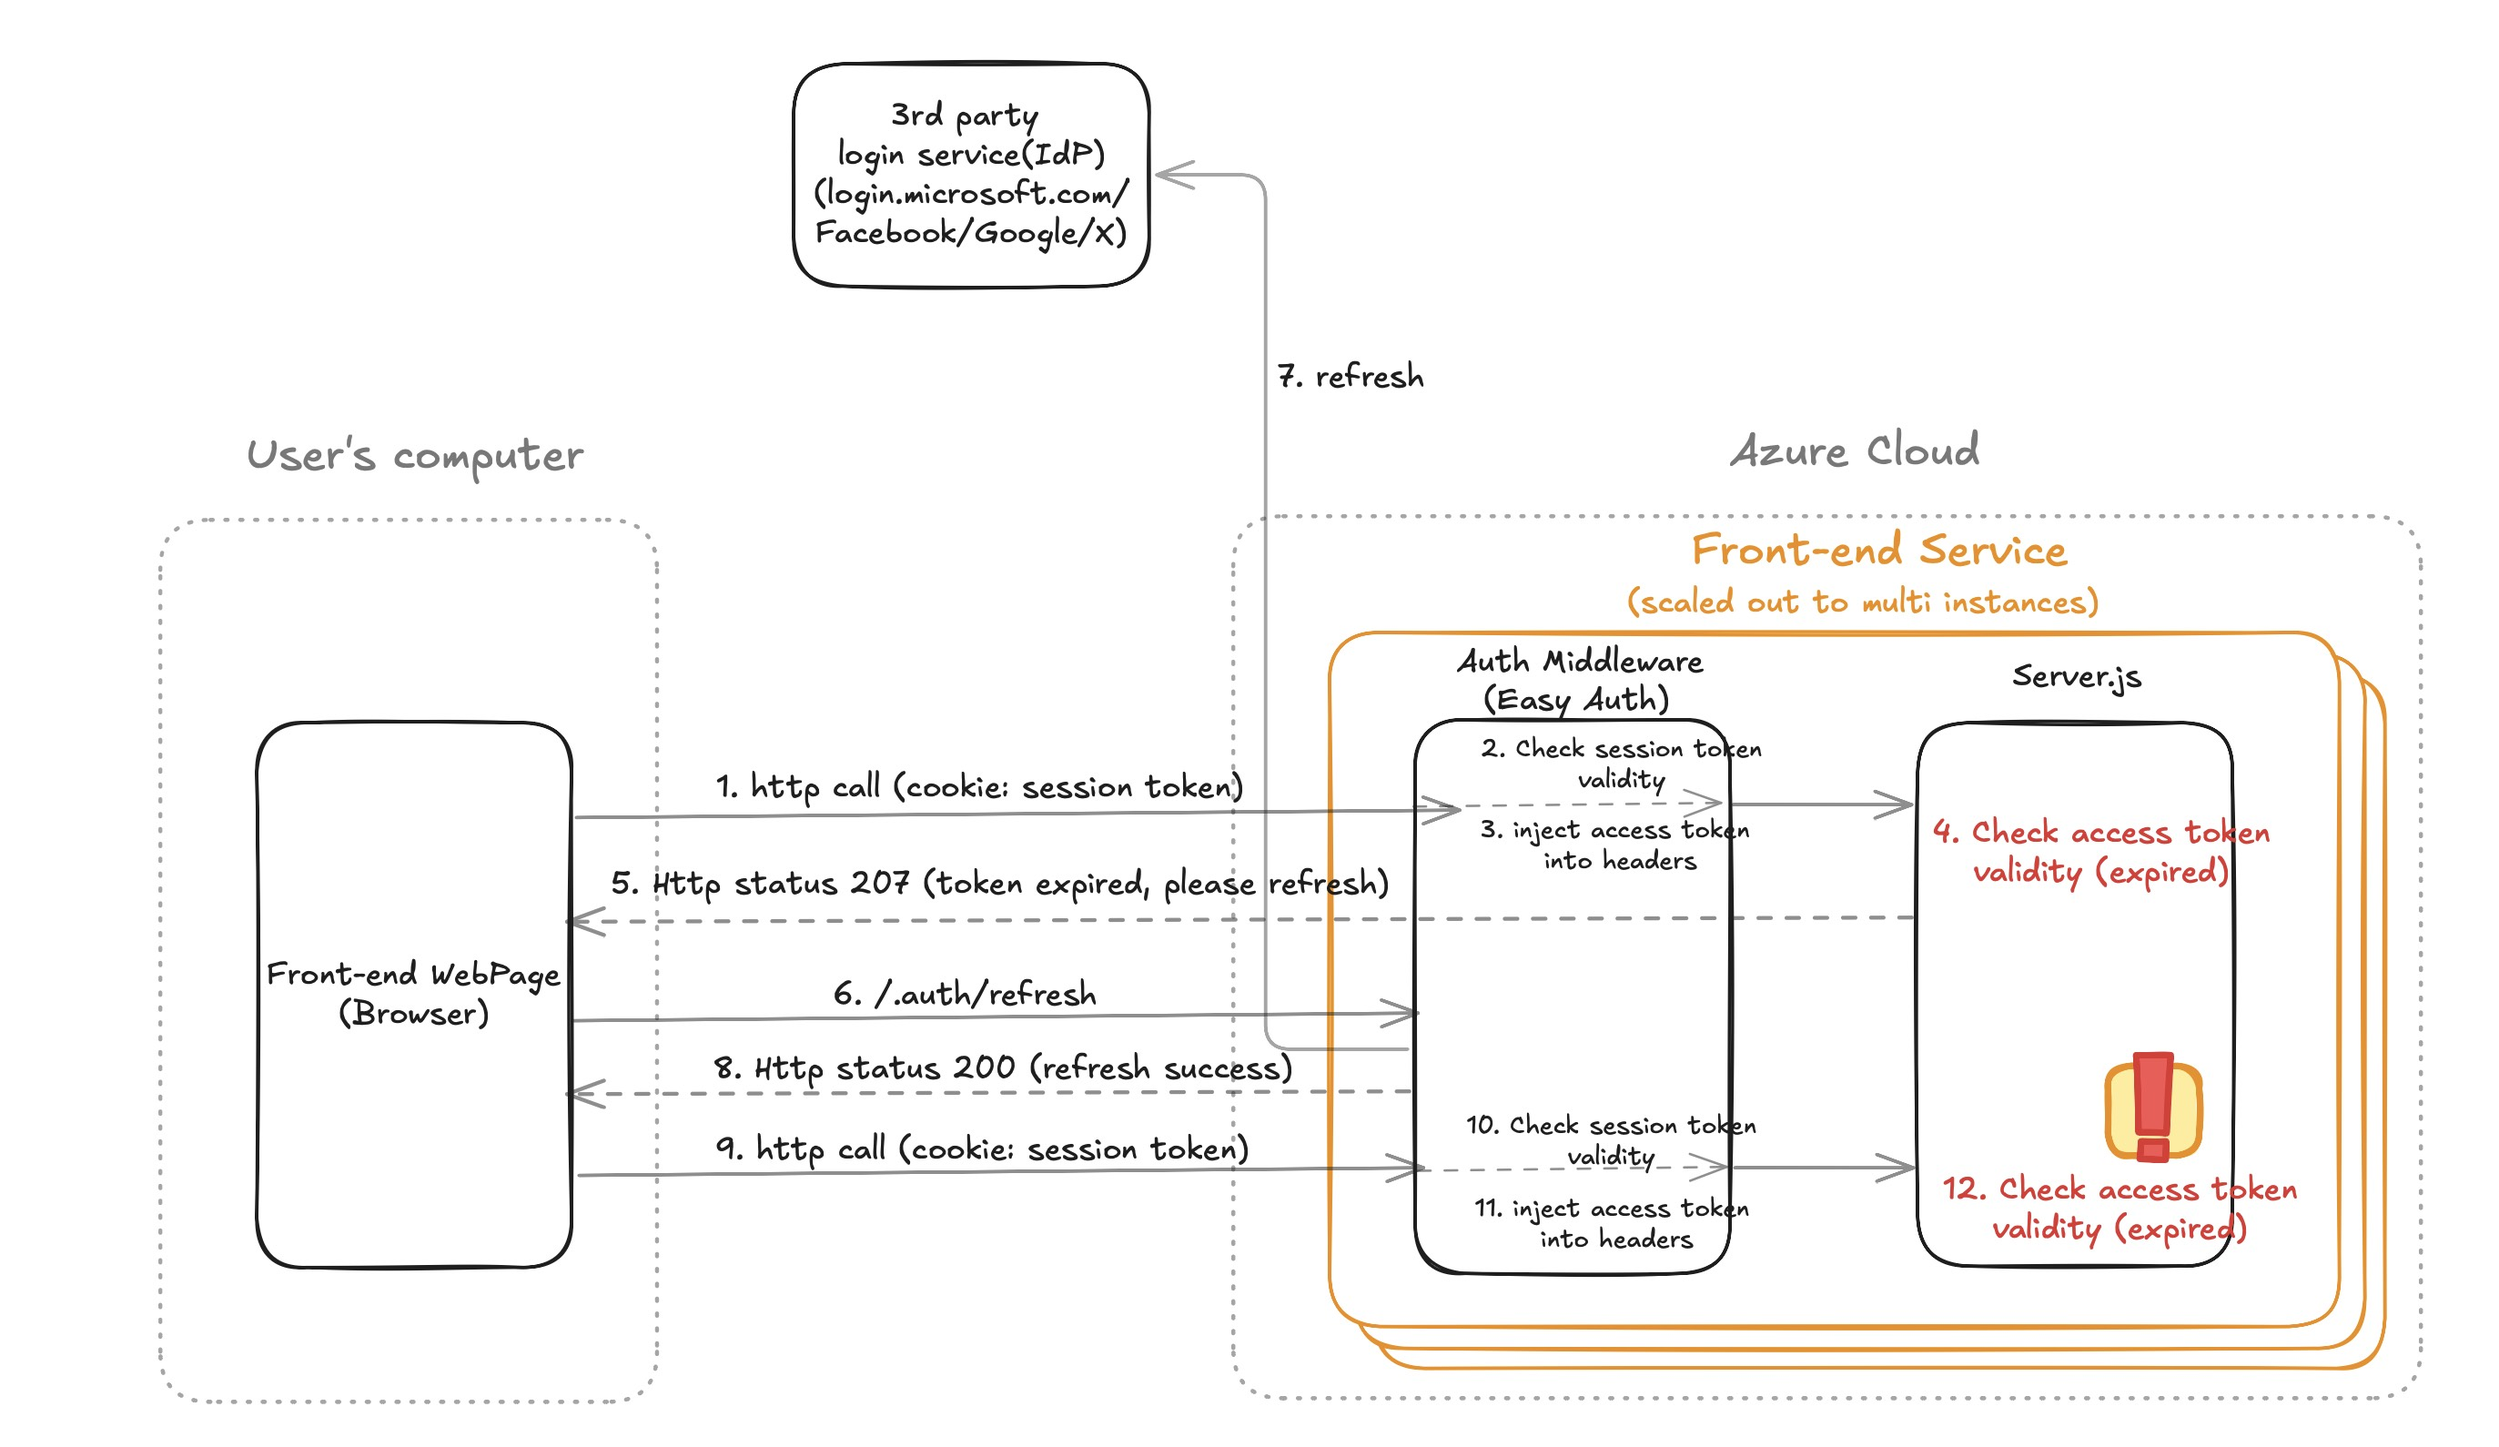
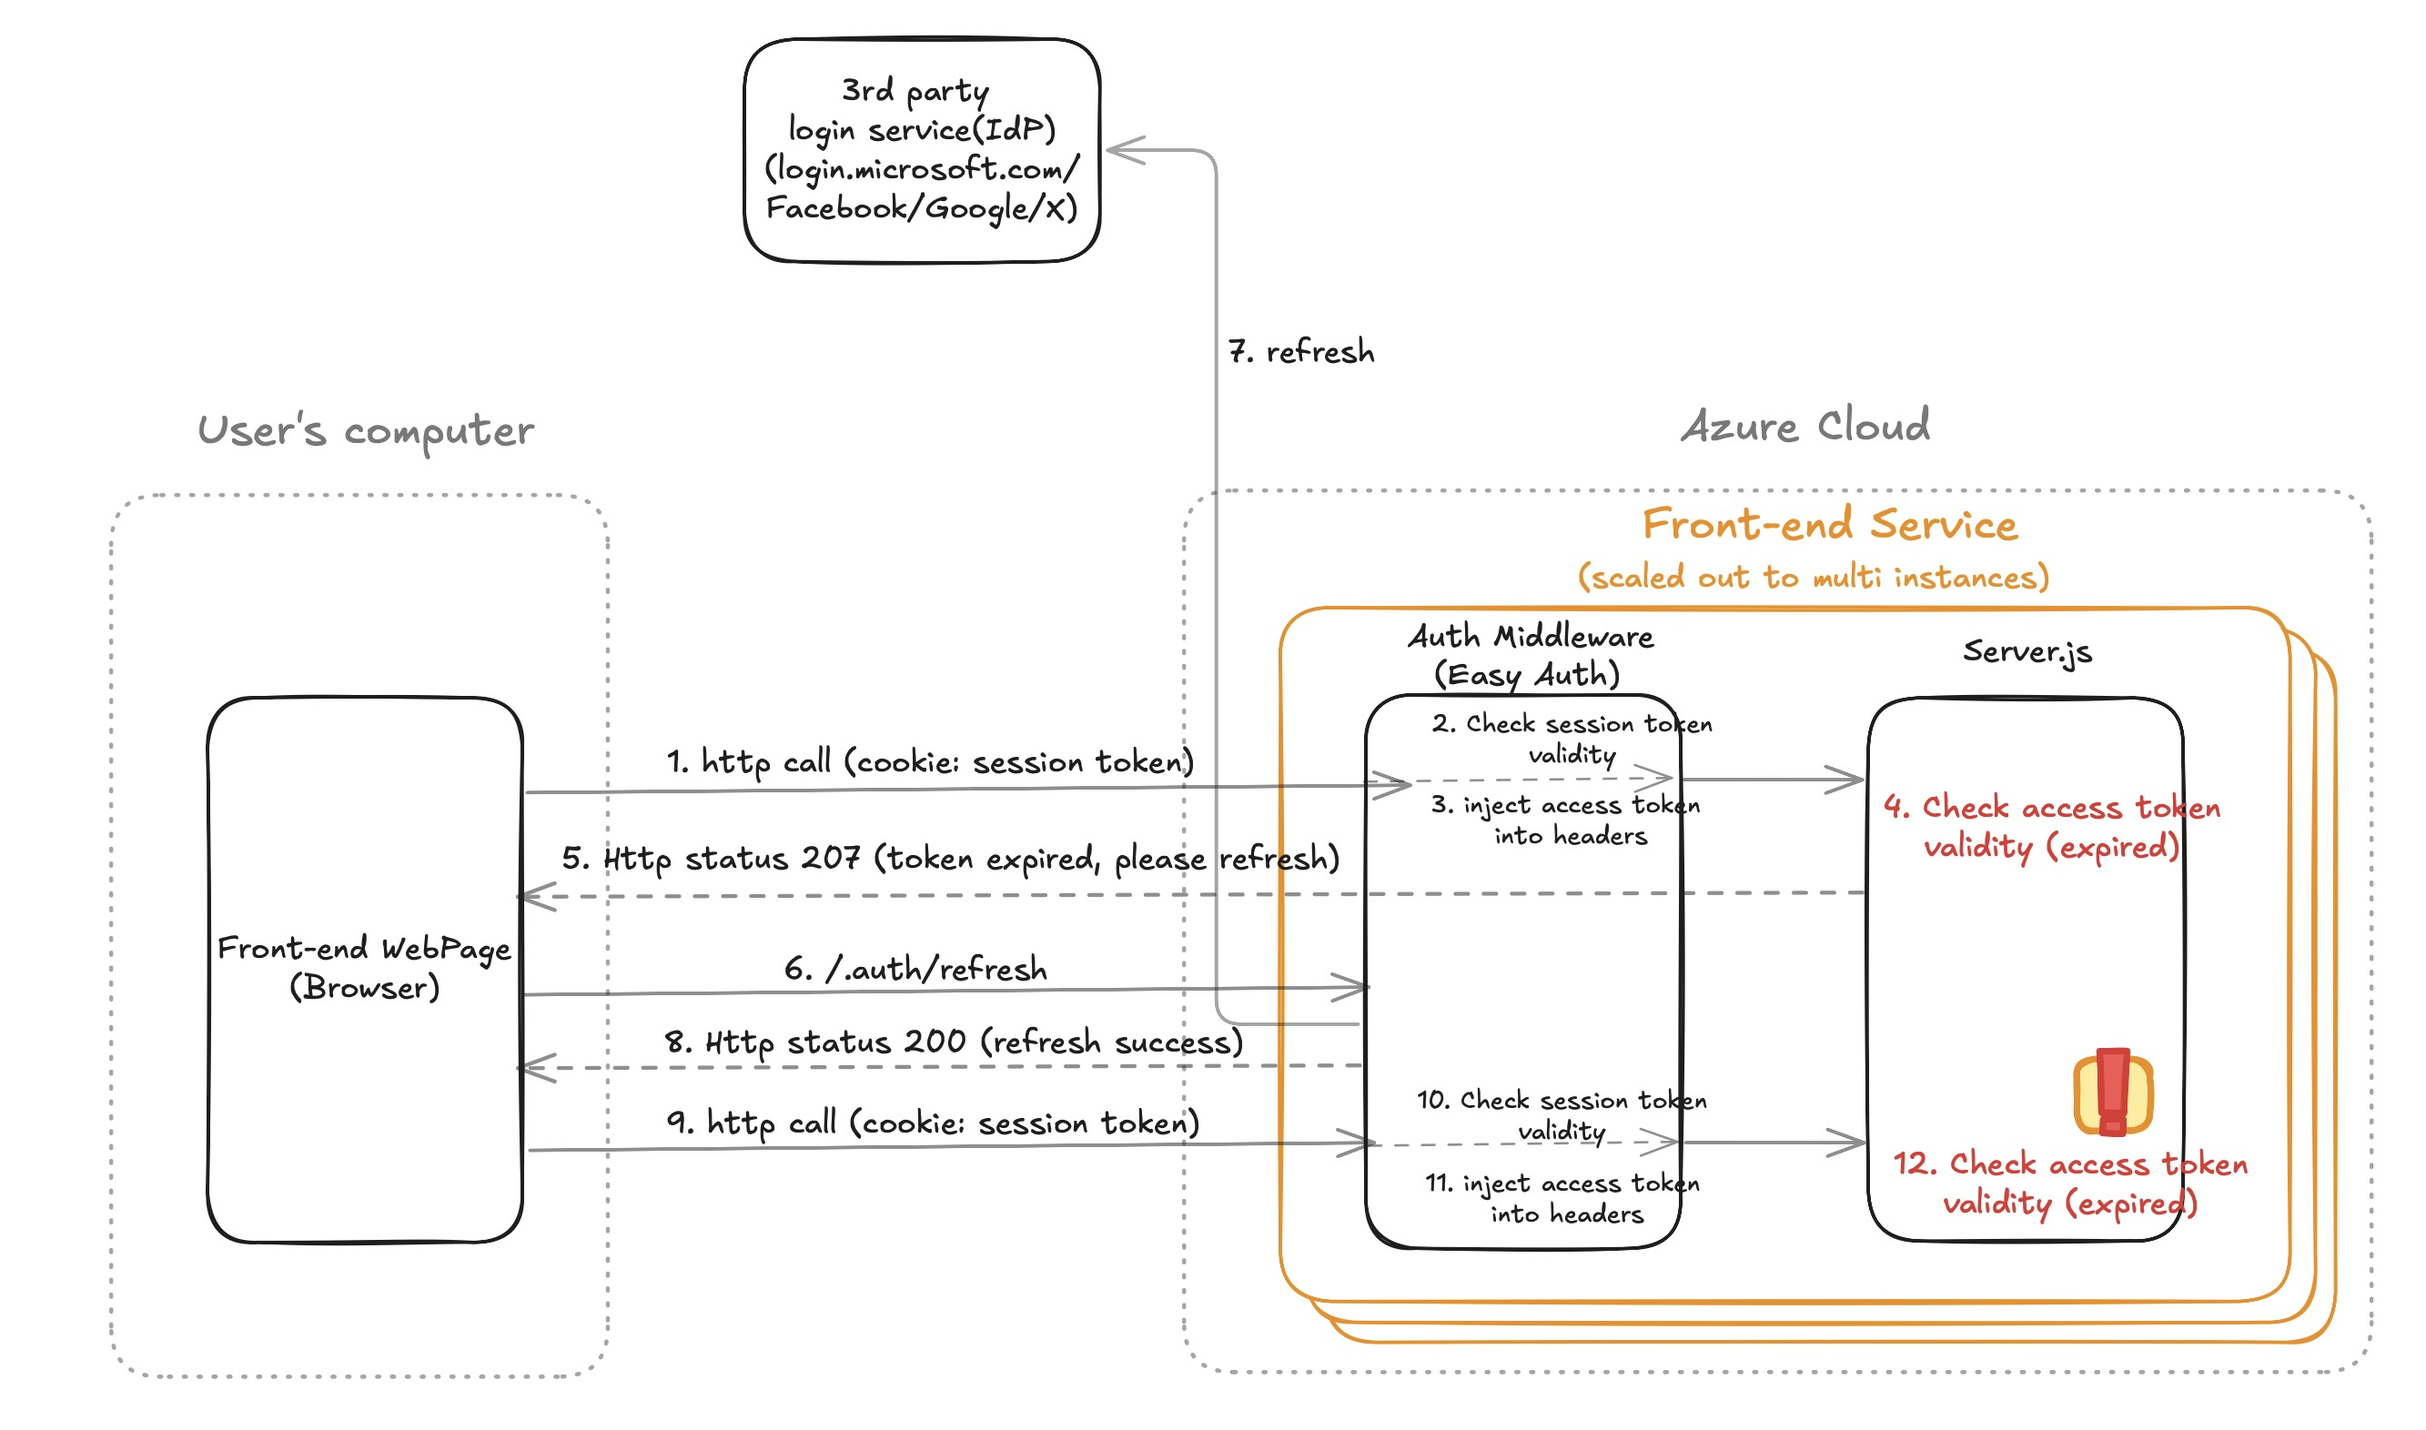
no message

diff --git a/_posts/2025-03-18-azure-easy-auth.md b/_posts/2025-03-18-azure-easy-auth.md
@@ -129,6 +129,26 @@ tags: [FrontEnd, Web, Azure, OAuth]
 
 ![sequence]({{ "/assets/images/2025-03-20/refresh.jpg" | absolute url }})
 
+1. 浏览器在 Http 请求中包含 Session Token（Cookie），并访问前端服务。
+2. Easy Auth Middleware 拦截请求，检测到 Session Token, 并确认是否过期。
+   - 如果 Session Token 过期，返回 302 重定向到身份提供商的登录页面。
+3. Easy Auth Middleware 根据 Session Token 有效, 并根据 Session Token，从存储中获取 access Token / id token / refresh token / expires in， 并将其添加到 Http Header 中。
+4. 前端服务从 Http Header 中获取 access token 并判断其是否有效(此时发现已过期)
+5. 前端服务发现 access token 过期，返回 207 状态码
+6. 浏览器收到 207 后，调用/.auth/refresh 接口刷新 access token
+7. refresh 请求被 Easy Auth Middleware 处理，从 IdP 拿到刷新后 access token
+8. Easy Auth Middleware 返回 http 200 状态码
+9. 浏览器收到 200 后，重新进行步骤 1 的 http 请求
+10. 同步骤 2
+11. 同步骤 3
+12. 前端服务从 Http Header 中获取 access token 并判断其是否有效(此时发现未过期)
+
+### 我们遇到的刷新 token 失败的问题
+
+![refresh-fail]({{ "/assets/images/2025-03-20/refresh-fail.jpg" | absolute url }})
+
+说明: 我们遇到的现象是，只有前端服务对应的 App Service Plan 启用了 Scale out 到多个 instance，才会出现刷新 token 失败的问题。
+
 ### 关于通过将 key store 从 file 修改为 blob 来规避多个 instance 下 accesskey 不同步问题的文档
 
 <https://stackoverflow.com/questions/69385054/azure-app-service-authentication-token-not-refreshing-after-calling-auth-refre>
